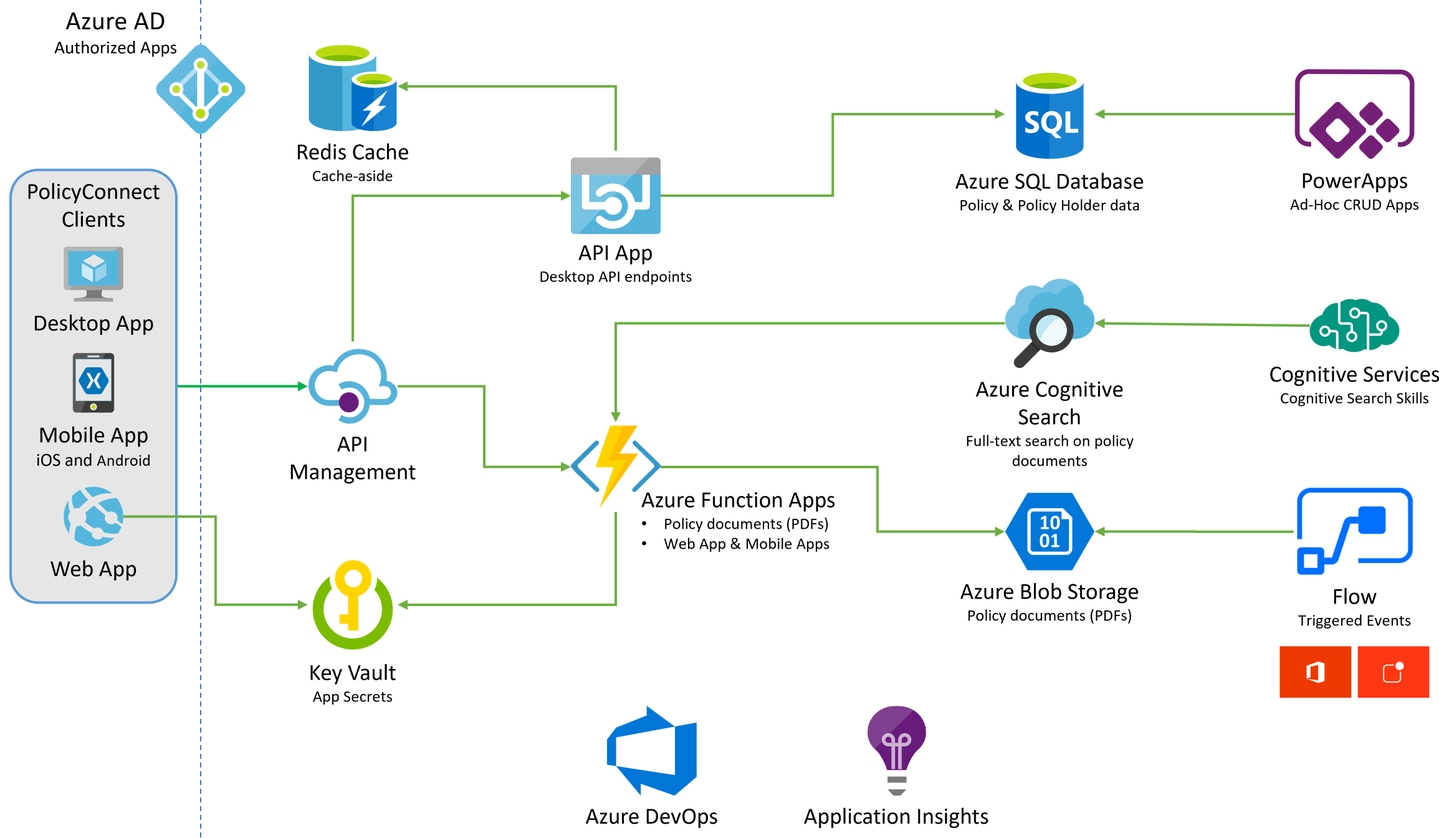
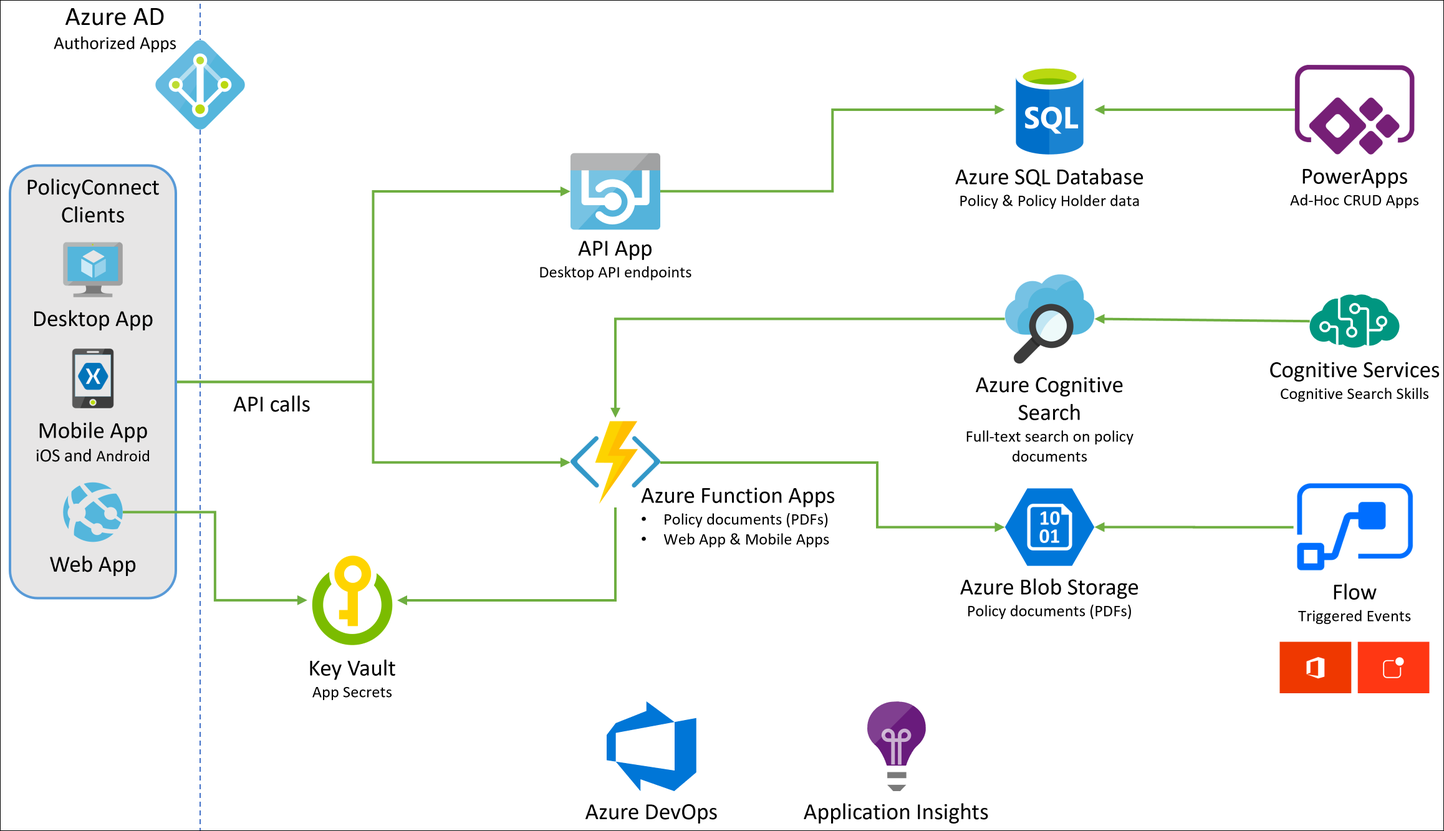
HOL updates to remove APIM

diff --git a/Hands-on lab/HOL step-by-step - App modernization.md b/Hands-on lab/HOL step-by-step - App modernization.md
@@ -72,12 +72,7 @@ Microsoft and the trademarks listed at <https://www.microsoft.com/en-us/legal/in
   - [Exercise 8: Add Cognitive Search for policy documents](#exercise-8-add-cognitive-search-for-policy-documents)
     - [Task 1: Add Azure Cognitive Search to Storage account](#task-1-add-azure-cognitive-search-to-storage-account)
     - [Task 2: Review search results](#task-2-review-search-results)
-  - [Exercise 9: Import and publish APIs into APIM](#exercise-9-import-and-publish-apis-into-apim)
-    - [Task 1: Import API App](#task-1-import-api-app)
-    - [Task 2: Import Function App](#task-2-import-function-app)
-    - [Task 3: Open Developer Portal and retrieve you API key](#task-3-open-developer-portal-and-retrieve-you-api-key)
-    - [Task 4: Update Web App to use API Management Endpoints](#task-4-update-web-app-to-use-api-management-endpoints)
-  - [Exercise 10: Create an app in PowerApps](#exercise-10-create-an-app-in-powerapps)
+  - [Exercise 9: Create an app in PowerApps](#exercise-9-create-an-app-in-powerapps)
     - [Task 1: Sign up for a PowerApps account](#task-1-sign-up-for-a-powerapps-account)
     - [Task 2: Create new SQL connection](#task-2-create-new-sql-connection)
     - [Task 3: Create a new app](#task-3-create-a-new-app)
@@ -113,16 +108,15 @@ Below is a high-level architecture diagram of the solution you implement in this
 
 ![This solution diagram includes a high-level overview of the architecture implemented within this hands-on lab.](./media/preferred-solution-architecture.png "Preferred Solution diagram")
 
-The solution begins with migrating Contoso's SQL Server 2008 R2 database to Azure SQL Database using the Azure Database Migration Service (DMS). Using the Data Migration Assistant (DMA) assessment, Contoso determined that they can migrate into a fully-managed SQL database service in Azure. The assessment revealed no compatibility issues or unsupported features that would prevent them from using Azure SQL Database. Next, they deploy the web and API apps into Azure App Services. Also, mobile apps, built for Android and iOS using Xamarin, are created to provide remote access to PolicyConnect. The website, hosted in a Web App, provides the user interface for browser-based clients, whereas the Xamarin Forms-based app provides the UI for mobile devices. Both the mobile app and website rely on web services hosted in a Function App, which sits behind API Management. An API App is also deployed to host APIs for the legacy Windows Forms desktop application. Light-weight, serverless APIs are provided by Azure Functions and Azure Functions Proxies to give access to the database and policy documents stored in Blob Storage.
+The solution begins with migrating Contoso's SQL Server 2008 R2 database to Azure SQL Database using the Azure Database Migration Service (DMS). Using the Data Migration Assistant (DMA) assessment, Contoso determined that they can migrate into a fully-managed SQL database service in Azure. The assessment revealed no compatibility issues or unsupported features that would prevent them from using Azure SQL Database. Next, they deploy the web and API apps into Azure App Services. Also, mobile apps, built for Android and iOS using Xamarin, are created to provide remote access to PolicyConnect. The website, hosted in a Web App, provides the user interface for browser-based clients, whereas the Xamarin Forms-based app provides the UI for mobile devices. Both the mobile app and website rely on web services hosted in a Function App. An API App is also deployed to host APIs for the legacy Windows Forms desktop application. Light-weight, serverless APIs are provided by Azure Functions and Azure Functions Proxies to give access to the database and policy documents stored in Blob Storage.
 
-Azure API Management is used to create an API Store for development teams and affiliated partners. Sensitive configuration data, like connection strings, are stored in Key Vault and accessed from the APIs or Web App on demand so that these settings never live in their file system. The API App implements the cache aside pattern using Azure Redis Cache. A full-text cognitive search pipeline is used to index policy documents in Blob Storage. Cognitive Services are used to enable search index enrichment using cognitive skills in Azure Search. PowerApps is used to enable authorized business users to build mobile and web create, read, update, delete (CRUD) applications. These apps interact with SQL Database and Azure Storage. Microsoft Flow enables them to orchestrations between services such as Office 365 email and services for sending mobile notifications. These orchestrations can be used independently of PowerApps or invoked by PowerApps to provide additional logic. The solution uses user and application identities maintained in Azure AD.
+Sensitive configuration data, like connection strings, are stored in Key Vault and accessed from the APIs or Web App on demand so that these settings never live in their file system. A full-text cognitive search pipeline is used to index policy documents in Blob Storage. Cognitive Services are used to enable search index enrichment using cognitive skills in Azure Search. PowerApps is used to enable authorized business users to build mobile and web create, read, update, delete (CRUD) applications. These apps interact with SQL Database and Azure Storage. Microsoft Flow enables them to orchestrations between services such as Office 365 email and services for sending mobile notifications. These orchestrations can be used independently of PowerApps or invoked by PowerApps to provide additional logic. The solution uses user and application identities maintained in Azure AD.
 
 > **Note:** The solution provided is only one of many possible, viable approaches.
 
 ## Requirements
 
-- Microsoft Azure subscription must be pay-as-you-go or MSDN.
-  - Trial subscriptions will not work.
+- Microsoft Azure subscription
 - A virtual machine configured with Visual Studio Community 2019 or higher (setup in the Before the hands-on lab exercises)
 - **IMPORTANT**: To complete this lab, you must have sufficient rights within your Azure AD tenant to:
   - Create an Azure Active Directory application and service principal
@@ -1758,186 +1752,7 @@ In this task, you run a query against your search index to review the enrichment
 
 8. As you can see from the search results, the addition of cognitive skills adds valuable metadata to your search index, and helps to make documents and their contents more usable by Contoso.
 
-## Exercise 9: Import and publish APIs into APIM
-
-Duration: 30 minutes
-
-In this exercise, you publish your API App and Function App API endpoints through API Management.
-
-### Task 1: Import API App
-
-In this task, you import your API App into APIM, using the OpenAPI specification, which leverages the Swagger definition associated with your API app.
-
-1. In the Azure portal, navigate to your **API Management Service** by selecting it from the list of resources under your hands-on-lab-SUFFIX resource group.
-
-   ![The API Management service is highlighted in the resources list.](media/azure-resources-api-management.png "API Management service")
-
-2. On the API Management service select the **APIs** blade, and then select **+ Add API** and select **OpenAPI**.
-
-   ![API Management Service with APIs blade selected. A button to add a new OpenAPI is highlighted](media/apim-add-api.png "API Management Service Add OpenAPI")
-
-3. A dialog to Create from OpenAPI specification is displayed. Select **Full** to expand the options that need to be entered.
-
-   ![The Create from OpenAPI specification dialog is displayed and Full is highlighted](media/e8-t1-create-api-dialog.png "Create from OpenAPI specification")
-
-4. Retrieve the value for the OpenAPI specification field from the `swagger` page of your API APP. (This is the URL of your API app, which you can retrieve from its overview blade in the Azure portal) plus "/swagger". (e.g., <https://contoso-api-jt7yc3zphxfda.azurewebsites.net/swagger>).
-
-5. On the Swagger page for your API App, right-click on the `swagger/v1/swagger.json` file link just below the PolicyConnect API title, and select **Copy link address**.
-
-   ![A context menu is displayed next to the swagger/v1/swagger.json link, and Copy link address is highlighted.](media/swagger-copy-json-link-address.png "Swagger")
-
-6. Return to the API Management Create from OpenAPI specification dialog, and enter the following:
-
-   - **OpenAPI specification**: Paste the copied link address from your Swagger page.
-   - **Display name**: This is automatically populated from the Swagger definition.
-   - **Name**: This is automatically populated from the Swagger definition.
-   - **URL scheme**: Choose **HTTPS**.
-   - **Products**: Select the **Unlimited** tag by clicking the field and selecting it from the dropdown list.
-
-   ![Create from OpenAPI specification dialog is filled and the create button is highlighted.](media/open-api-dialog-complete.png "Create OpenAPI specification")
-
-7. After creating the API, select the **PolicyConnect API** from the list of APIs on the left, and on the Design tab, with All operations selected, select the **Policies** icon in the Inbound process tile.
-
-   ![On the All operations section, the Inbound processing policies icon is highlighted.](media/apim-inbound-processing.png "API Management")
-
-8. On the Policies screen, insert the code below between the `<inbound></inbound>` tags, and below the `<base />` tag. You need to **replace** `<your-web-app-url>` between the `<origin></origin>` tags with the URL for your Web App.
-
-   ```xml
-   <cors allow-credentials="true">
-       <allowed-origins>
-           <origin><your-web-app-url></origin>
-       </allowed-origins>
-       <allowed-methods>
-           <method>*</method>
-       </allowed-methods>
-       <allowed-headers>
-           <header>*</header>
-       </allowed-headers>
-       <expose-headers>
-           <header>*</header>
-       </expose-headers>
-   </cors>
-   ```
-
-   Your updated policies value should look similar to the following:
-
-   ![The XML code above has been inserted into the Policies XML document.](media/apim-policies.png "API Management")
-
-   > **Note**: The policy added above is for handling cross-origin resource sharing (CORS). If you are testing the web app locally, you need to add another `<origin></origin>` tag within `<allowed-origins></allowed-origins>` that contains `https://localhost:<port-number>`, where `<port-number>` is the port assigned by your debugger (as is shown in the screenshot above).
-
-9. Select **Save**.
-
-10. Next, select the **Settings** tab. On the Settings tab, enter the URL of your API App, starting with `https://`. **Note**: You can copy this value from the text editor you have been using to store values throughout this lab.
-
-    ![The settings tab for the PolicyConnect API is displayed, with the API App url entered into the Web Service URL field.](media/apim-policyconnect-api-settings.png "API Settings")
-
-11. Select **Save** on the Settings tab.
-
-### Task 2: Import Function App
-
-In this task, you import your Function App into APIM.
-
-1. Select **+ Add API** again, and this time select **Function App** as the source of the API.
-
-   ![Add API is highlighted in the left-hand menu, and the Function App tile is highlighted.](media/api-management-add-function-app.png "API Management")
-
-2. On the Create from Function App dialog, select the **Browse** button next to the Function App field.
-
-3. In the Import Azure Functions blade, select **Function App Configure required settings** and then select your Function App from the list, and choose **Select**.
-
-   ![The Select Function App dialog is displayed, and hands-on-lab-SUFFIX is entered into the filter box.](media/select-function-app.png "Select Function App")
-
-   > **Note**: You can filter using your resource group name, if needed.
-
-4. Back on the Import Azure Functions blade, ensure the PolicyDocs function is checked, and choose **Select**.
-
-   ![The Import Azure Functions blade is displayed, with the configuration specified above set.](media/import-azure-functions.png "Import Azure Functions")
-
-5. Back on the Create from Function App dialog in APIM, all of the properties for the API are set from your Azure Function. Set the Products to Unlimited, as you did previously. Note, you may need to select **Full** at the top to see the Products box.
-
-   ![On the Create from Function App dialog, the values specified above are entered into the form.](media/apim-create-from-function-app.png "API Management")
-
-6. Select **Create**.
-
-7. After the Function App API is created, select it from the left-hand menu, select the **Settings** tab, and under **Products** select **Unlimited**.
-
-   ![On the Settings tab for the newly created Function App managed API, Unlimited is highlighted in the Products field.](media/apim-create-from-function-app-settings.png "API settings for Function App")
-
-8. Select **Save**.
-
-### Task 3: Open Developer Portal and retrieve you API key
-
-In this task, you quickly look at the APIs in the Developer Portal, and retrieve your key. The Developer Portal allows you to check the list of APIs and endpoints as well as find useful information about them.
-
-1. Open the APIM Developer Portal by selecting **Developer portal (legacy)** from the Overview blade of your API Management service in the Azure portal.
-
-   ![On the APIM Service Overview blade the link for the developer portal is highlighted.](media/apim-developer-portal.png "Developer Portal")
-
-2. In the Azure API Management portal, select **APIs** from the top menu, and then select the API associated with your Function App.
-
-   ![In the Developer portal, the APIs menu item is selected and highlighted, and the Function App API is highlighted.](media/dev-portal-apis-function-app.png "Developer portal")
-
-3. The API page allows you to view and test your API endpoints directly in the Developer portal.
-
-   ![The Profile link is highlighted on the API page for the Function App API.](media/apim-endpoint-details.png "API Management")
-
-4. Copy the highlighted request URL. This is the new value you use for the `PolicyDocumentsPath` setting in the next task.
-
-   > **Note**: We don't need to do this for the PolicyConnect API because the path is defined by the Swagger definition. The only thing that needs to change for that is the base URL, which points to APIM and not your API App.
-
-5. Next, select the **Administrator** drop down located near the top right of the API page, and then select **Profile** from the fly-out menu. The **Profile** page allows you to retrieve your `Ocp-Apim-Subscription-Key` value, which you need to retrieve so the PolicyConnect web application can access the APIs through APIM.
-
-6. On the Profile page, select **Show** next to the Primary Key for the **Unlimited** Product, copy the key value and paste it into a text editor for use below.
-
-   ![The Primary Key field is highlighted under the Unlimited subscription.](media/apim-dev-portal-subscription-keys.png "API Management Developer Portal")
-
-### Task 4: Update Web App to use API Management Endpoints
-
-In this task, you use the Azure Cloud Shell and Azure CLI to update the `ApiUrl` and `PolicyDocumentsPath` settings for the PolicyConnect Web App. You also add a new setting for the APIM access key.
-
-1. In the [Azure portal](https://portal.azure.com), select the Azure Cloud Shell icon from the menu at the top right of the screen.
-
-   ![The Azure Cloud Shell icon is highlighted in the Azure portal's top menu.](media/cloud-shell-icon.png "Azure Cloud Shell")
-
-2. In the Cloud Shell window that opens at the bottom of your browser window, select **PowerShell**.
-
-   ![In the Welcome to Azure Cloud Shell window, PowerShell is highlighted.](media/cloud-shell-select-powershell.png "Azure Cloud Shell")
-
-3. After a moment, you receive a message that you have successfully requested a Cloud Shell, and be presented with a PS Azure prompt.
-
-   ![In the Azure Cloud Shell dialog, a message is displayed that requesting a Cloud Shell succeeded, and the PS Azure prompt is displayed.](media/cloud-shell-ps-azure-prompt.png "Azure Cloud Shell")
-
-4. At the Cloud Shell prompt, run the following command to retrieve your Web App name, making sure to replace `<your-resource-group-name>` with your resource group name:
-
-   ```powershell
-   $resourceGroup = "<your-resource-group-name>"
-   az webapp list -g $resourceGroup --output table
-   ```
-
-5. In the output, copy the name of Web App (the resource name starts with contoso-**web**) into a text editor for use below.
-
-   ![The Web App Name value is highlighted in the output of the command above.](media/azure-cloud-shell-az-webapp-list-web-app-name.png "Azure Cloud Shell")
-
-6. Next replace the tokenized values in the following command as specified below, and then run it from the Azure Cloud Shell command prompt.
-
-   - `<your-web-app-name>`: Replace with your Web App name, which you copied in above.
-   - `<your-apim-gateway-url>`: Replace with the Gateway URL of your API Management instance, which you can find on the Overview blade of the API Management Service in the Azure portal.
-   - `<your-apim-subscription-key>`: Replace with the APIM `Ocp-Apim-Subscription-Key` value that you copied into a text editor above.
-   - `<your-apim-function-app-path>`: Replace with path you copied for your Function App within API Management, that is to be used for the `PolicyDocumentsPath` setting.
-
-   ```powershell
-   $webAppName = "<your-web-app-name>"
-   $apimUrl = "<your-apim-gateway-url>"
-   $apimKey = "<your-apim-subscription-key>"
-   $policyDocsPath = "<your-apim-function-app-path>"
-   az webapp config appsettings set -n $webAppName -g $resourceGroup --settings "PolicyDocumentsPath=$policyDocsPath" "ApiUrl=$apimUrl" "ApimSubscriptionKey=$apimKey"
-   ```
-
-7. In the output, note the newly added and updated settings in your Web App's application settings. The settings were updated by the script above and triggered a restart of your web app.
-
-8. In a web browser, navigate to the Web app URL, and verify you still see data when you select one of the tabs.
-
-## Exercise 10: Create an app in PowerApps
+## Exercise 9: Create an app in PowerApps
 
 Duration: 15 minutes
 

diff --git a/Hands-on lab/Manual-resource-setup.md b/Hands-on lab/Manual-resource-setup.md
@@ -17,15 +17,14 @@ June 2020
   - [Task 6: Provision a Web App](#task-6-provision-a-web-app)
   - [Task 7: Provision an API App](#task-7-provision-an-api-app)
   - [Task 8: Provision a Function App](#task-8-provision-a-function-app)
-  - [Task 9: Provision API Management](#task-9-provision-api-management)
-  - [Task 10: Create Azure Cognitive Search service](#task-10-create-azure-cognitive-search-service)
-  - [Task 11: Create Cognitive Services account](#task-11-create-cognitive-services-account)
-  - [Task 12: Create an Azure Key Vault](#task-12-create-an-azure-key-vault)
-  - [Task 13: Connect to the Lab VM](#task-13-connect-to-the-lab-vm)
-  - [Task 14: Install required software on the LabVM](#task-14-install-required-software-on-the-labvm)
-  - [Task 15: Connect to SqlServer2008 VM](#task-15-connect-to-sqlserver2008-vm)
-  - [Task 16: Restore and configure the ContosoInsurance database on the SqlServer2008 VM](#task-16-restore-and-configure-the-contosoinsurance-database-on-the-sqlserver2008-vm)
-  - [Task 17: Install the Microsoft Data Migration Assistant on the SqlServer2008 VM](#task-17-install-the-microsoft-data-migration-assistant-on-the-sqlserver2008-vm)
+  - [Task 9: Create Azure Cognitive Search service](#task-9-create-azure-cognitive-search-service)
+  - [Task 10: Create Cognitive Services account](#task-10-create-cognitive-services-account)
+  - [Task 11: Create an Azure Key Vault](#task-11-create-an-azure-key-vault)
+  - [Task 12: Connect to the Lab VM](#task-12-connect-to-the-lab-vm)
+  - [Task 13: Install required software on the LabVM](#task-13-install-required-software-on-the-labvm)
+  - [Task 14: Connect to SqlServer2008 VM](#task-14-connect-to-sqlserver2008-vm)
+  - [Task 15: Restore and configure the ContosoInsurance database on the SqlServer2008 VM](#task-15-restore-and-configure-the-contosoinsurance-database-on-the-sqlserver2008-vm)
+  - [Task 16: Install the Microsoft Data Migration Assistant on the SqlServer2008 VM](#task-16-install-the-microsoft-data-migration-assistant-on-the-sqlserver2008-vm)
 
 ## Task 1: Create an Azure Storage account
 
@@ -408,38 +407,7 @@ In this task, you provision a Function App, which is used for retrieving PDF doc
 
 8. Select **Create**.
 
-## Task 9: Provision API Management
-
-In this task, you provision API Management (APIM). APIM provides the ability to manage the Contoso APIs.
-
-1. In the [Azure portal](https://portal.azure.com/), select the **Show portal menu** icon and then select **+Create a resource** from the menu.
-
-   ![The Show portal menu icon is highlighted, and the portal menu is displayed. Create a resource is highlighted in the portal menu.](media/create-a-resource.png "Create a resource")
-
-2. Enter "api management" into the Search the Marketplace box, select **API Management** from the results.
-
-   !["Api management" is entered into the Search the Marketplace box. API Management is selected in the results.](media/create-resource-api-management.png "Create Web App")
-
-3. On the API Management blade, select **Create**.
-
-4. On the API Management service blade, enter the following:
-
-   - **Name**: Enter contoso-apim-SUFFIX.
-   - **Subscription**: Select the subscription you are using for this hands-on lab.
-   - **Resource Group**: Select the hands-on-lab-SUFFIX resource group from the list of existing resource groups.
-   - **Location**: Select the location you are using for resources in this hands-on lab.
-   - **Organization name**: Enter Contoso Insurance.
-   - **Administrator email**: Enter an email add that can receive API Management admin notifications.
-   - **Pricing tier**: Select Developer (No SLA).
-   - **Enable Application Insights**: Uncheck this box.
-
-   ![The values specified above are entered into the API Management service blade.](media/api-management-service-create.png "Create API Management service")
-
-5. Select **Create**.
-
-6. It takes around 30 minutes for API Management to finish provisioning. You can move on to the next task while you wait.
-
-## Task 10: Create Azure Cognitive Search service
+## Task 9: Create Azure Cognitive Search service
 
 In this task, you create an Azure Cognitive Search service.
 
@@ -472,7 +440,7 @@ In this task, you create an Azure Cognitive Search service.
 
 7. It takes around 10 minutes for the new search service to finish provisioning. You can move on to the next task while you wait.
 
-## Task 11: Create Cognitive Services account
+## Task 10: Create Cognitive Services account
 
 In this task, you create a Cognitive Services account.
 
@@ -499,7 +467,7 @@ In this task, you create a Cognitive Services account.
 
 5. Select **Create**.
 
-## Task 12: Create an Azure Key Vault
+## Task 11: Create an Azure Key Vault
 
 In this task, you provision an Azure Key Vault, which enables application secrets to be stored securely.
 
@@ -535,7 +503,7 @@ In this task, you provision an Azure Key Vault, which enables application secret
 
 6. On the **Review + create** tab, select **Create**.
 
-## Task 13: Connect to the Lab VM
+## Task 12: Connect to the Lab VM
 
 In this task, you create an RDP connection to your Lab virtual machine (VM), and disable Internet Explorer Enhanced Security Configuration.
 
@@ -586,7 +554,7 @@ In this task, you create an RDP connection to your Lab virtual machine (VM), and
 
 12. Close the Server Manager, but leave the connection to the LabVM open for the next task.
 
-## Task 14: Install required software on the LabVM
+## Task 13: Install required software on the LabVM
 
 In this task, you configure the LabVM with the required software and downloads. First, you download and install SQL Server Management Studio (SSMS). Next, you download and install .NET Core 2.2. You also download a copy of the Visual Studio starter solution and unzip it into a folder named `C:\MCW`.
 
@@ -614,7 +582,7 @@ In this task, you configure the LabVM with the required software and downloads. 
 
    ![The Extract Compressed Folders dialog is displayed, with `C:\MCW` entered into the extraction location.](media/mcw-download-extract.png "Extract Compressed ZIP")
 
-## Task 15: Connect to SqlServer2008 VM
+## Task 14: Connect to SqlServer2008 VM
 
 In this task, you open an RDP connection to the SqlServer2008 VM, disable Internet Explorer Enhanced Security Configuration, and add a firewall rule to open port 1433 to inbound TCP traffic.
 
@@ -651,7 +619,7 @@ In this task, you open an RDP connection to the SqlServer2008 VM, disable Intern
 
    ![Screenshot of the Internet Explorer Enhanced Security Configuration dialog box, with Administrators set to Off.](./media/2008-internet-explorer-enhanced-security-configuration-dialog.png "Internet Explorer Enhanced Security Configuration dialog box")
 
-## Task 16: Restore and configure the ContosoInsurance database on the SqlServer2008 VM
+## Task 15: Restore and configure the ContosoInsurance database on the SqlServer2008 VM
 
 In this task, you restore the `ContosoInsurance` database onto the SQL Server 2008 R2 instance using a backup provided by Contoso, Ltd.
 
@@ -681,7 +649,7 @@ In this task, you restore the `ContosoInsurance` database onto the SQL Server 20
 
    ![The ContosoInsurance database is highlighted in the list of databases.](media/ssms-databases.png "Databases")
 
-## Task 17: Install the Microsoft Data Migration Assistant on the SqlServer2008 VM
+## Task 16: Install the Microsoft Data Migration Assistant on the SqlServer2008 VM
 
 In this task, you install the Microsoft Data Migration Assistant (DMA) on the SqlServer2008 VM.
 

diff --git a/Hands-on lab/Before the HOL - App modernization.md b/Hands-on lab/Before the HOL - App modernization.md
@@ -113,7 +113,6 @@ In this task, you run an Azure Resource Manager (ARM) template to deploy and con
 - App Service (Web App)
 - App Service (API App)
 - Function App
-- API Management
 - Key Vault
 - Azure Cognitive Search
 - Azure Cognitive Services account
@@ -123,9 +122,9 @@ In this task, you run an Azure Resource Manager (ARM) template to deploy and con
 
 1. To run the ARM template deployment, select the **Deploy to Azure** button below, which opens a custom deployment screen in the Azure portal.
 
-<a href ="https://portal.azure.com/#create/Microsoft.Template/uri/https%3A%2F%2Fraw.githubusercontent.com%2Fmicrosoft%2FMCW-App-modernization%2Fmaster%2FHands-on%20lab%2Flab-files%2FARM-template%2Fazure-deploy.json" target="_blank" title="Deploy to Azure">
-<img src="http://azuredeploy.net/deploybutton.png"/>
-</a>
+   <a href ="https://portal.azure.com/#create/Microsoft.Template/uri/https%3A%2F%2Fraw.githubusercontent.com%2Fmicrosoft%2FMCW-App-modernization%2Fmaster%2FHands-on%20lab%2Flab-files%2FARM-template%2Fazure-deploy.json" target="_blank" title="Deploy to Azure">
+      <img src="http://azuredeploy.net/deploybutton.png"/>
+   </a>
 
 2. On the custom deployment screen in the Azure portal, enter the following:
 
@@ -139,7 +138,6 @@ In this task, you run an Azure Resource Manager (ARM) template to deploy and con
 
     - **Admin Username**: Accept the default value, **demouser**.
     - **Admin Password**: Accept the default value, **Password.1!!**.
-    - **API Management Email**: Enter an email to use for admin notifications from API Management.
     - Check the box to agree to the Azure Marketplace terms and conditions.
 
     ![The Custom deployment blade displays, and the information above is entered on the Custom deployment blade.](media/azure-custom-deployment.png "Custom deployment blade")
